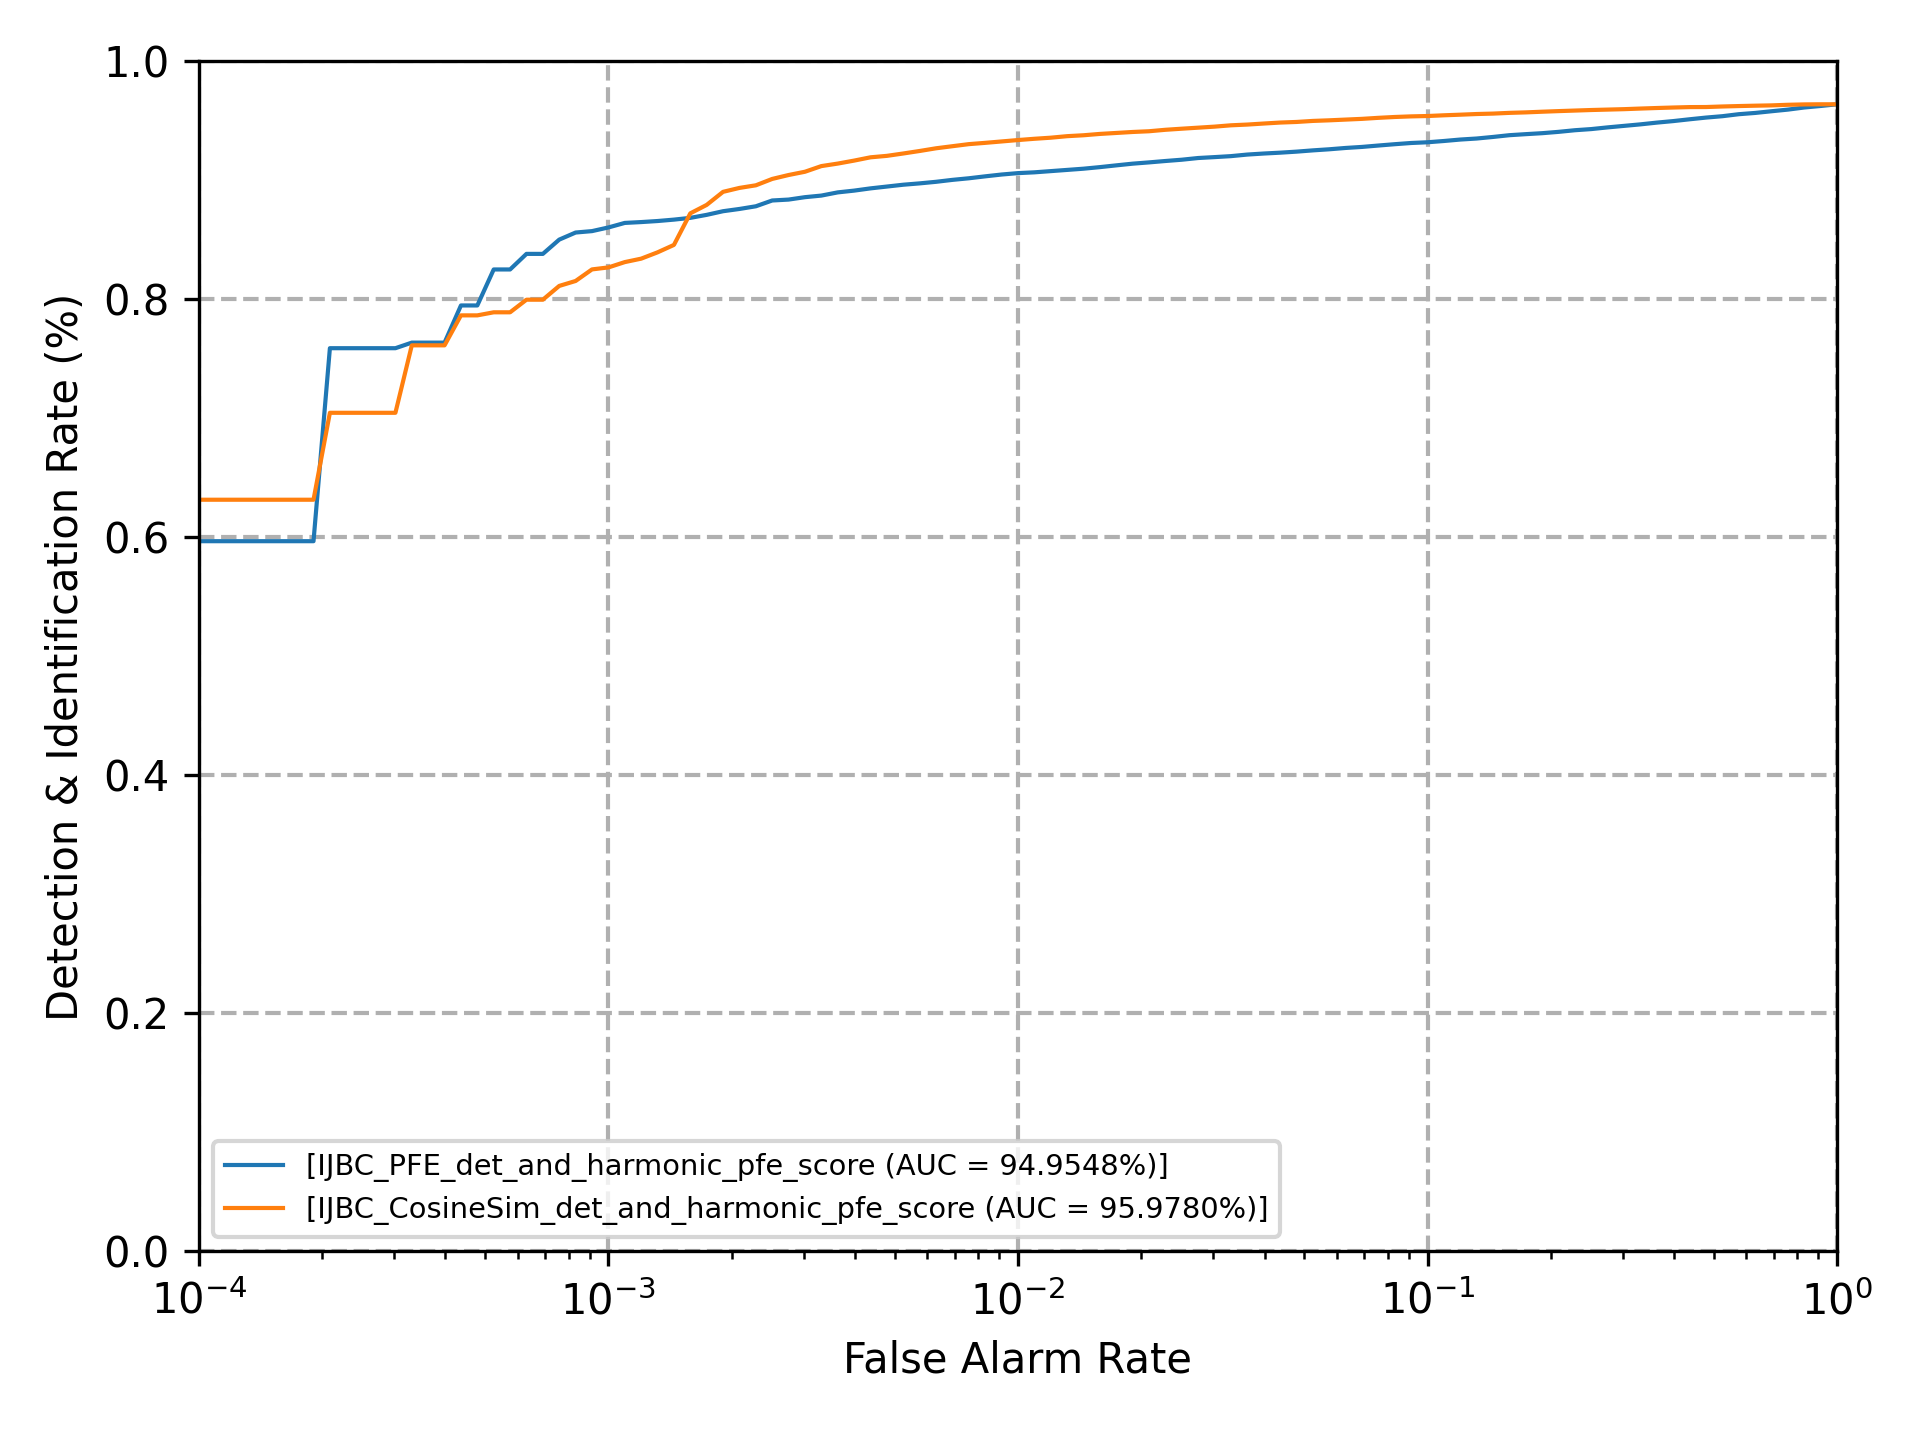
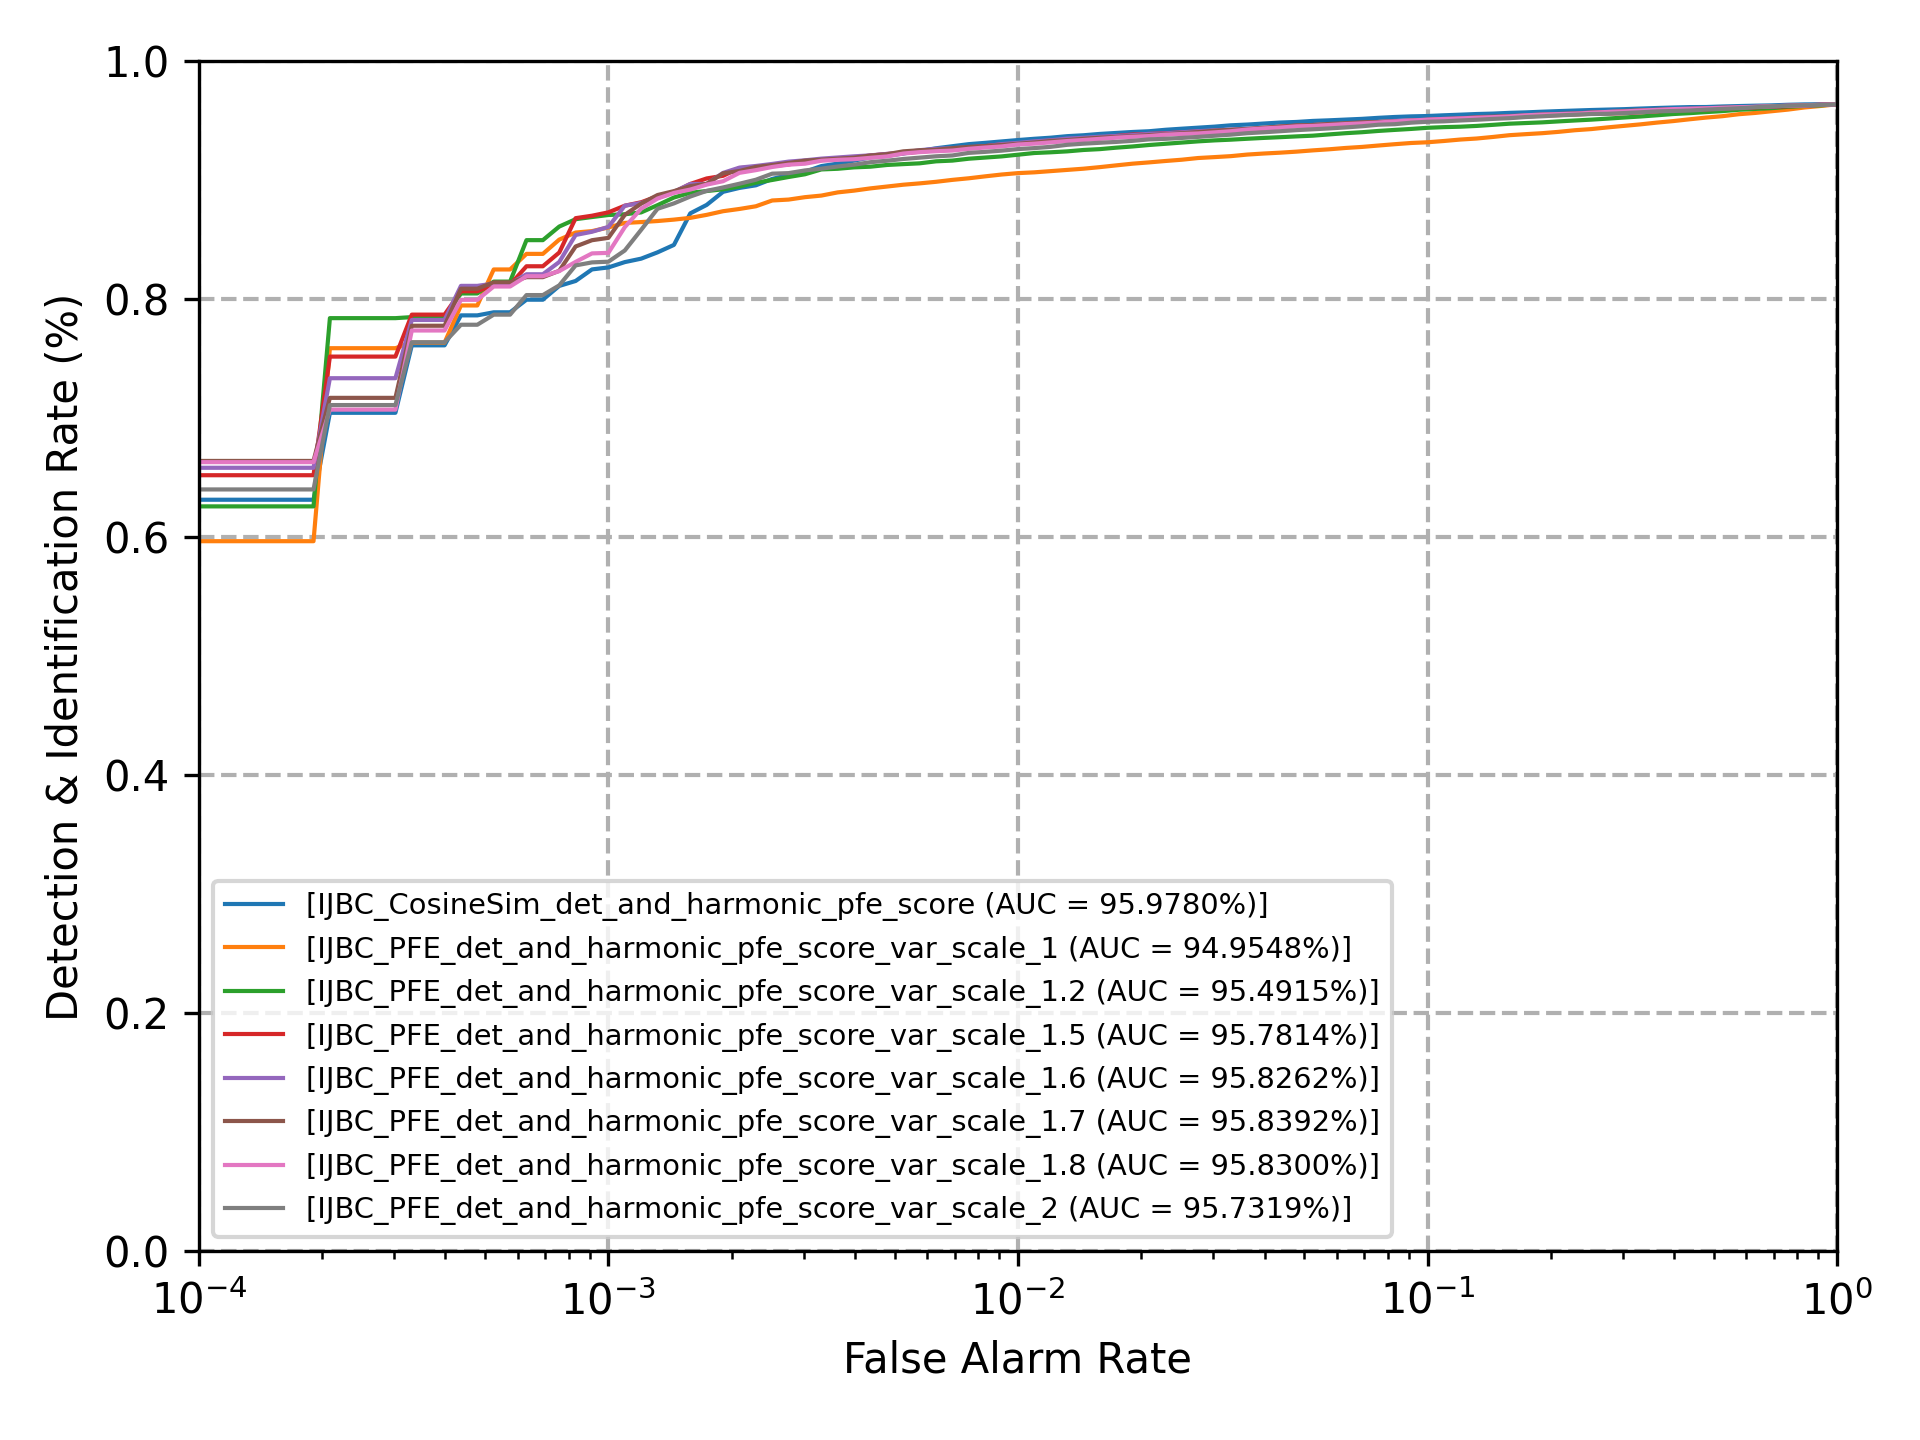
fpe search

Changed region(s): [[0.0938, 0.5938, 0.7188, 0.875], [0.0938, 0.0625, 0.9375, 0.375]]

diff --git a/evaluation/one_to_N_eval_functions.py b/evaluation/one_to_N_eval_functions.py
@@ -224,7 +224,7 @@ class CosineSim:
 
 
 class SCF:
-    def __init__(self, confidence_function: dict, k_shift: float) -> None:
+    def __init__(self, confidence_function: dict, k_shift: float, use_cosine_sim_match: bool) -> None:
         """
         Implements SCF mutual “likelihood” of distributions belonging to the same person (sharing the same latent code)
 
@@ -233,6 +233,7 @@ class SCF:
         """
         self.confidence_function = confidence_function
         self.k_shift = k_shift
+        self.use_cosine_sim_match = use_cosine_sim_match
 
     def __call__(
         self,
@@ -282,8 +283,12 @@ class SCF:
             - d * np.log(64)
         )
         # scf_similarity = -scf_similarity
-        similarity = mu_ij / 2
-        # similarity = -similarity
+        if self.use_cosine_sim_match:
+            similarity = mu_ij / 2
+        else:
+            similarity = scf_similarity
+
+
         # compute confidences
         confidence_function = getattr(
             confidence_functions, self.confidence_function.class_name
